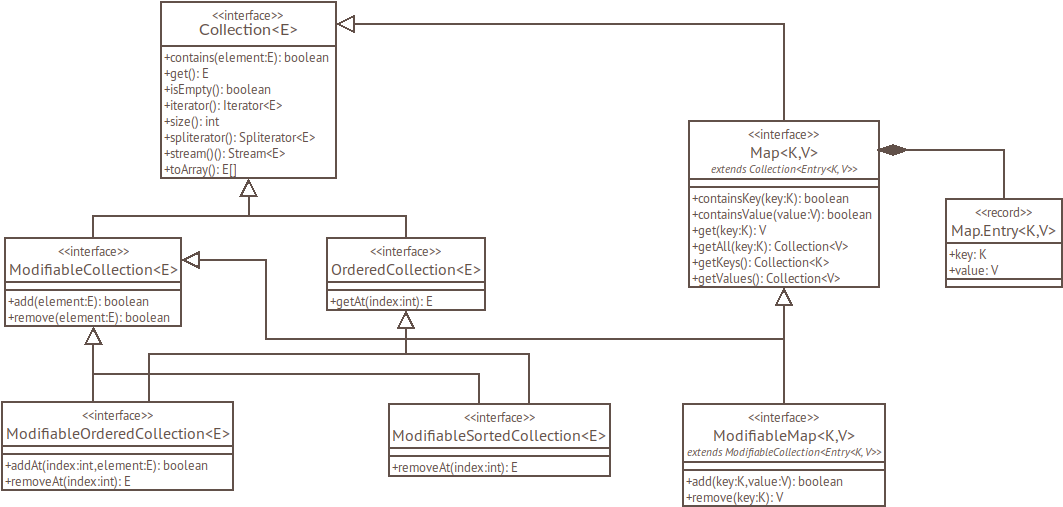
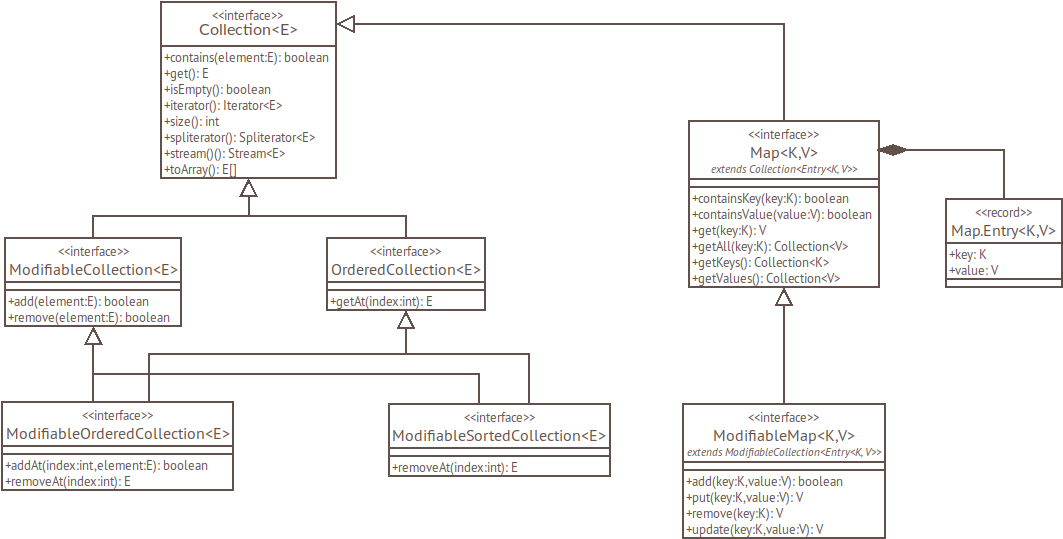
Defined more methods om ModifiableMap

diff --git a/src/main/java/net/filipvanlaenen/kolektoj/ModifiableMap.java b/src/main/java/net/filipvanlaenen/kolektoj/ModifiableMap.java
@@ -19,6 +19,23 @@ public interface ModifiableMap<K, V> extends Collection<Entry<K, V>>, Map<K, V> 
     boolean add(K key, V value);
 
     /**
+     * Adds an entry to this map with the given key and value if the key isn't already present, otherwise updates the
+     * key with the given value. If the key was previously mapped to a value, the value is returned, and null otherwise.
+     * 
+     * @param key   The key.
+     * @param value The value.
+     * @return The value if the key was previously mapped to a value, or null otherwise.
+     */
+    default V put(K key, V value) {
+        if (containsKey(key)) {
+            return update(key, value);
+        } else {
+            add(key, value);
+            return null;
+        }
+    }
+
+    /**
      * Removes an entry from this map with the given key, and returns the value that was mapped to the key. Throws an
      * exception if the map doesn't contain an entry with the key.
      *
@@ -27,4 +44,15 @@ public interface ModifiableMap<K, V> extends Collection<Entry<K, V>>, Map<K, V> 
      * @throws IllegalArgumentException Thrown if the map doesn't contain an entry with the key.
      */
     V remove(K key) throws IllegalArgumentException;
+
+    /**
+     * Updates the key with the given value, and returns the vale that was previously mapped to the key. Throws an
+     * exception if the map doesn't contain an entry with the key.
+     * 
+     * @param key   The key.
+     * @param value The value.
+     * @return The value the key was mapped to previously.
+     * @throws IllegalArgumentException Thrown if the map doesn't contain an entry with the key.
+     */
+    V update(K key, V value) throws IllegalArgumentException;
 }

diff --git a/src/main/java/net/filipvanlaenen/kolektoj/array/ModifiableArrayMap.java b/src/main/java/net/filipvanlaenen/kolektoj/array/ModifiableArrayMap.java
@@ -293,4 +293,27 @@ public final class ModifiableArrayMap<K, V> implements ModifiableMap<K, V> {
         System.arraycopy(entries, 0, result, 0, size);
         return result;
     }
+
+    @Override
+    public V update(K key, V value) throws IllegalArgumentException {
+        int index = findFirstIndexForKey(key);
+        if (index == -1) {
+            throw new IllegalArgumentException("Map doesn't contain an entry with the key " + key + ".");
+        }
+        Entry<K, V> oldEntry = hashedEntries[index];
+        V oldValue = oldEntry.value();
+        if (value != oldValue) {
+            Entry<K, V> newEntry = new Entry<K, V>(key, value);
+            for (int i = 0; i < size; i++) {
+                if (entries[i] == oldEntry) {
+                    entries[i] = newEntry;
+                    break;
+                }
+            }
+            hashedEntries[index] = newEntry;
+            values.remove(oldValue);
+            values.add(value);
+        }
+        return oldValue;
+    }
 }
